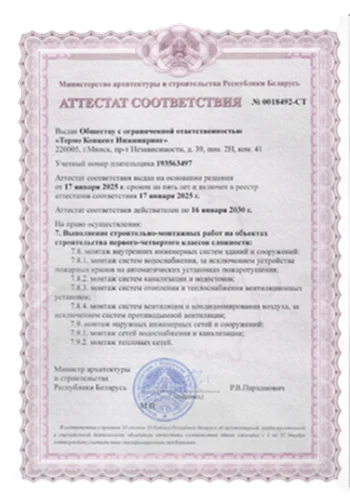
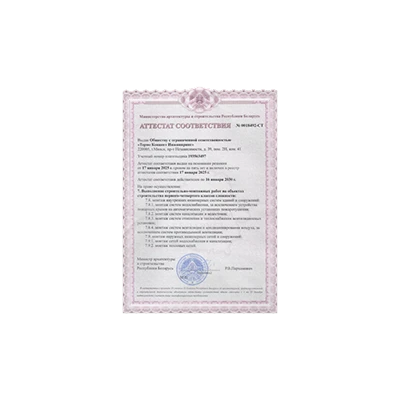
Docs - L: новые прозрачные сканы аттестатов, убран Divider - L
- src/images/docs/attestat-{ct,gs}.{png,webp}: заменены на новые сканы
  с прозрачным фоном (400x400), фото уже отцентровано внутри самого
  файла пользователем
- docs-l.njk: width/height атрибуты img обновлены под 400x400,
  обновлён поясняющий комментарий
- style.2.css: .docs-l__cert-img упрощён с height:62.5%/width:auto
  (ручная центровка старых непрозрачных сканов) на width/height:100%
  (новые сканы уже отцентрованы сами)
- about.njk: убран Divider - L между Team - L и Docs - L (Team-L и
  Docs-L теперь идут впритык, как в Figma); заодно устраняет визуальный
  артефакт на 768px, где border-left дивайдера сшивался с border-left
  Docs-L в одну сплошную линию

diff --git a/src/css/style.2.css b/src/css/style.2.css
@@ -6654,13 +6654,13 @@ body.body--header-overlay {
   background-color: #f3f4f6;
 }
 
-/* Скан целиком, без обрезки — по факту в Figma это просто равномерное
-   уменьшение в 2 раза (175/350 = 250/500 = 0.5, то же у второго скана),
-   реализовано явно через высоту 62.5% от контейнера (250/400),
-   ширина — автоматически по родному соотношению сторон каждого скана. */
+/* 11.08, обновлено: новые сканы — прозрачный PNG 400×400, фото уже
+   отцентровано пользователем внутри собственного холста один в один с
+   размером .docs-l__photo (проверено через convert -trim — видимая
+   область идентична смещена у обоих файлов), поэтому просто
+   растягиваем на всю карточку без ручной центровки. */
 .docs-l__cert-img {
   display: block;
-  height: 62.5%;
-  width: auto;
-  max-width: 100%;
+  width: 100%;
+  height: 100%;
 }
